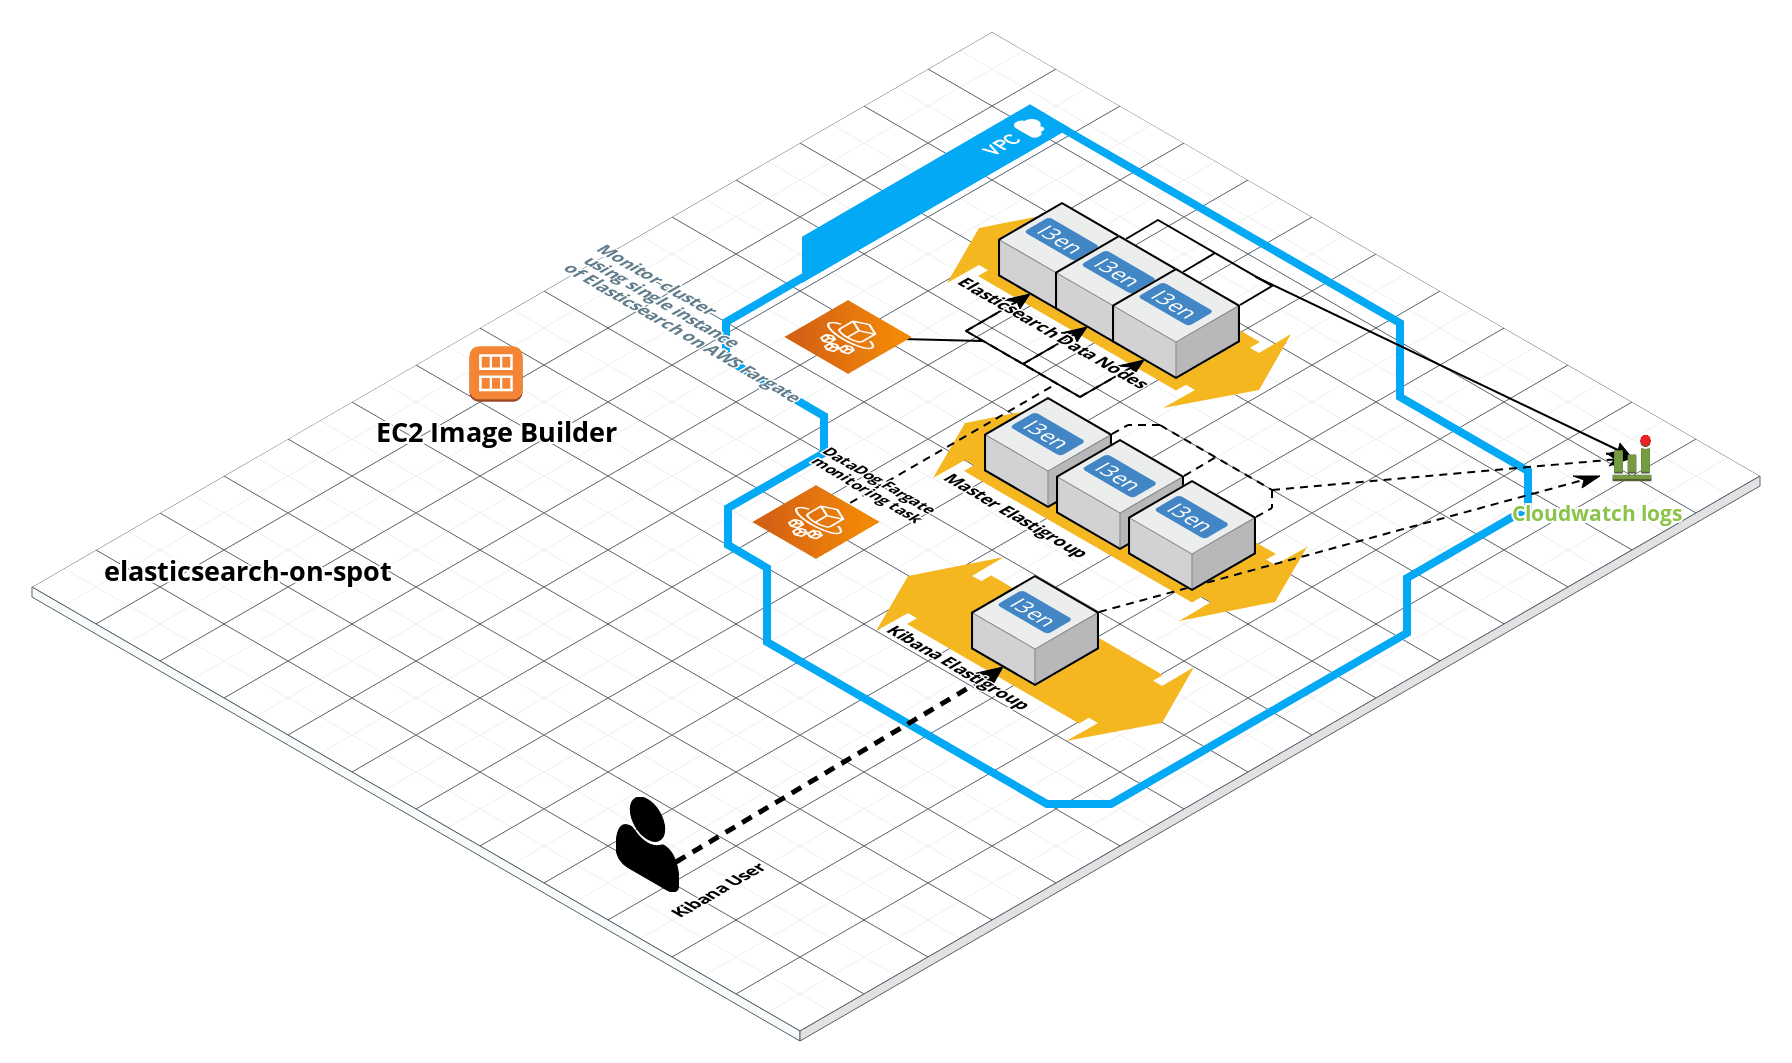
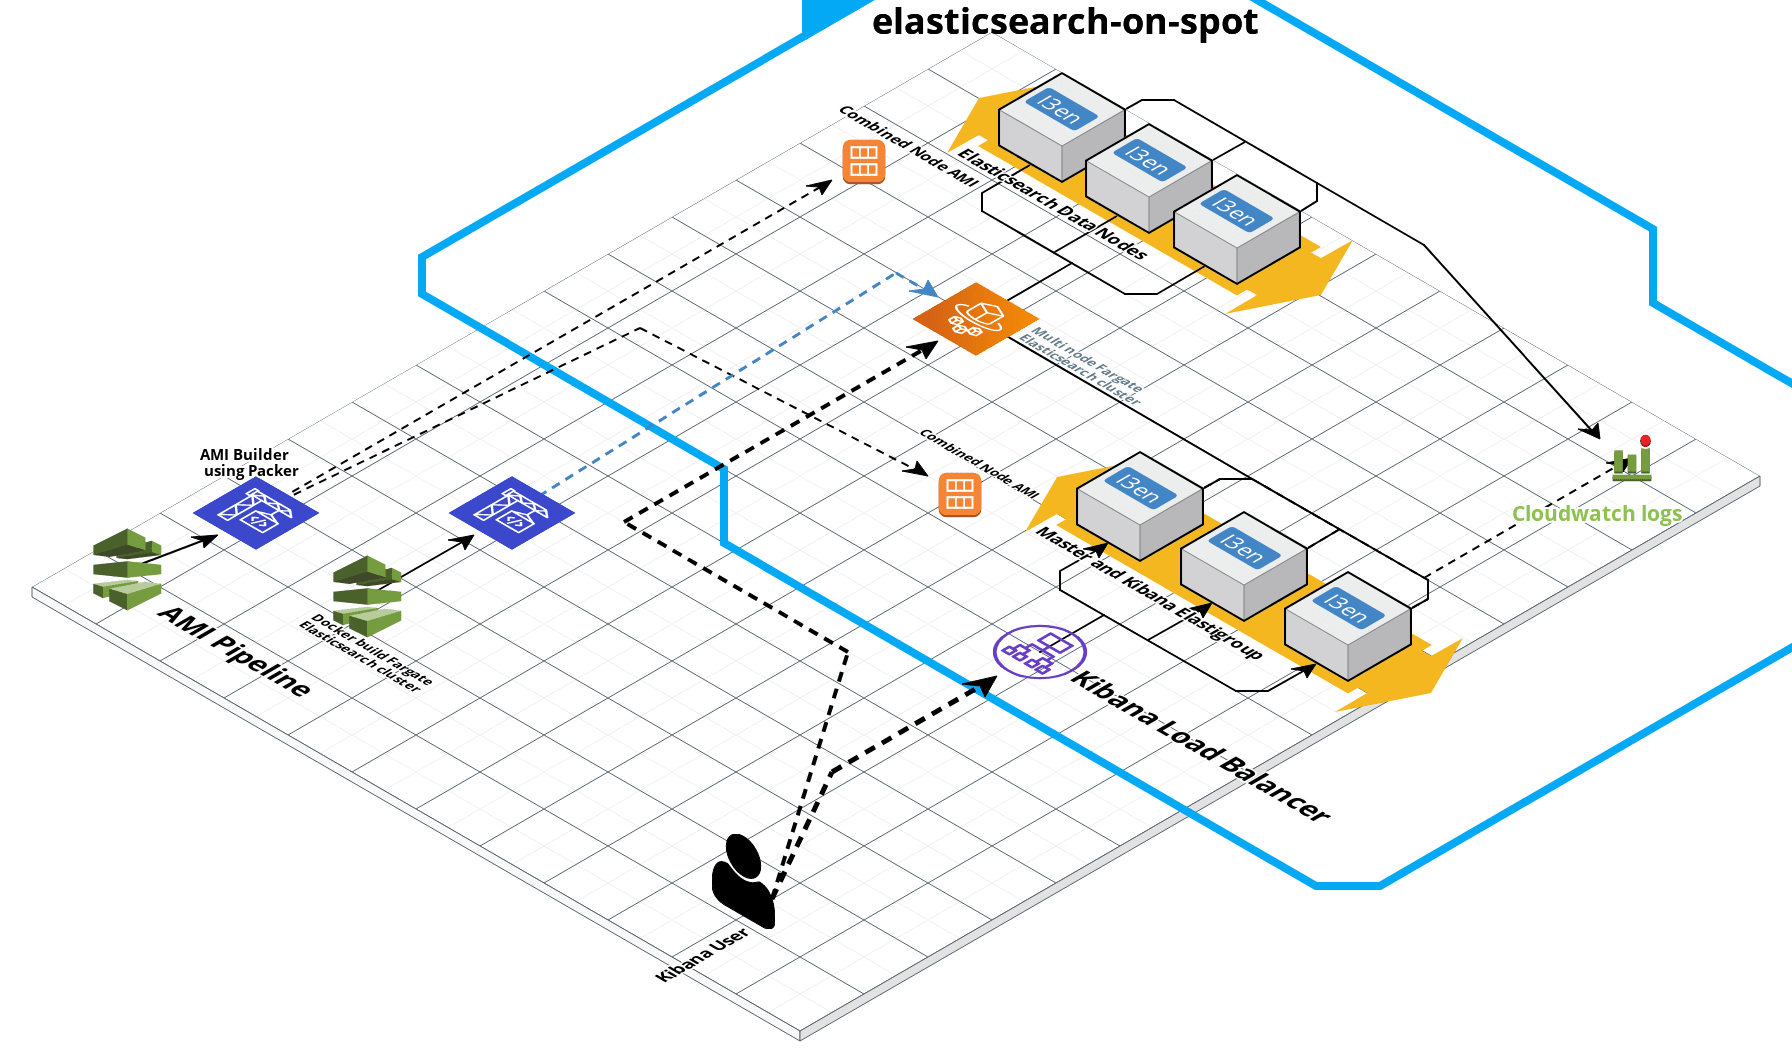
new diagram, new plan

diff --git a/README.md b/README.md
@@ -18,3 +18,18 @@ sam validate
 sam build
 sam deploy --guided
 ```
+
+
+## AMI and Container Build Steps
+
+```bash
+cd elasticsearch-on-spot
+rm ami.zip
+zip -r ami.zip ./ami 
+aws s3 cp ami.zip s3://bucketname/ami.zip
+
+rm fargateelasticsearch.zip
+zip -r fargateelasticsearch.zip ./fargateelasticsearch 
+aws s3 cp fargateelasticsearch.zip s3://bucketname/fargateelasticsearch.zip
+
+```
